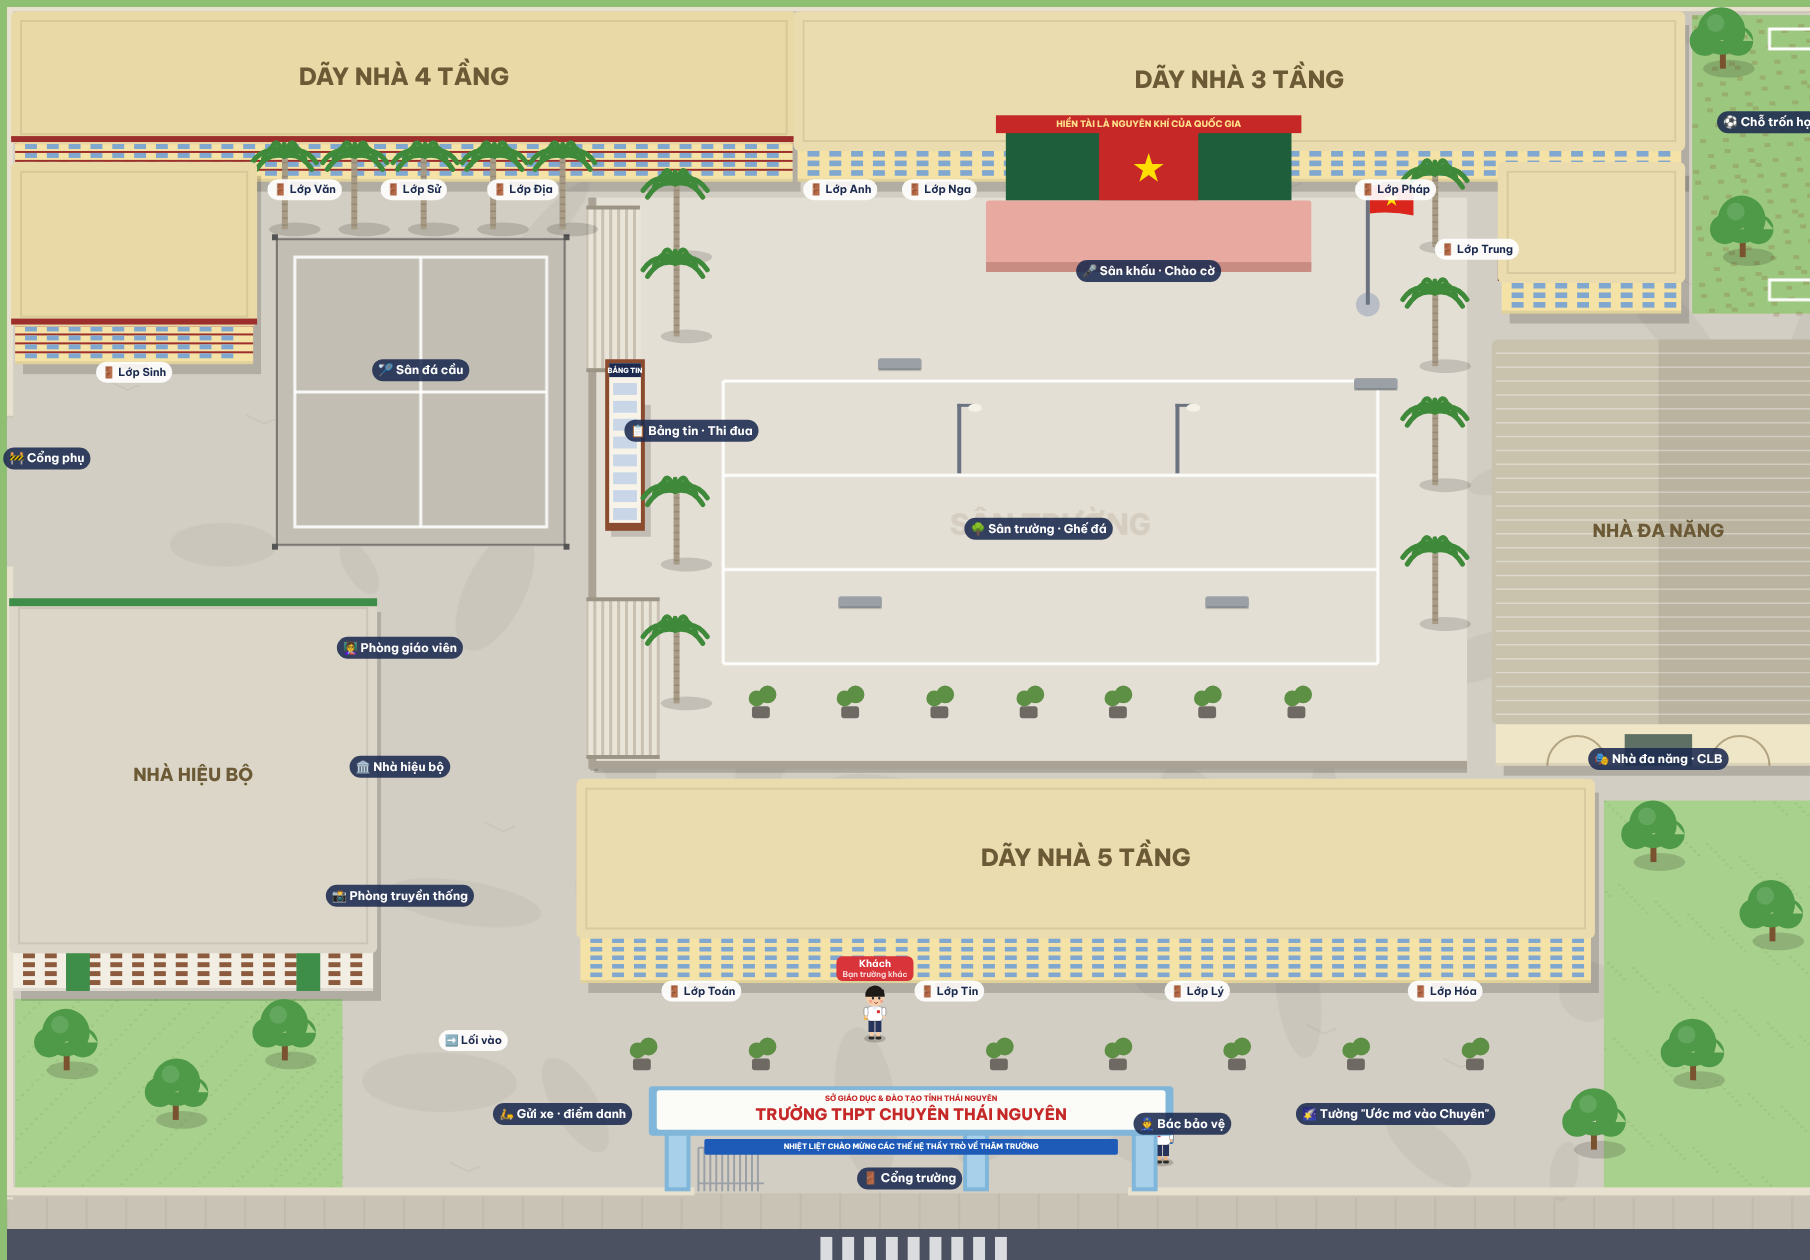
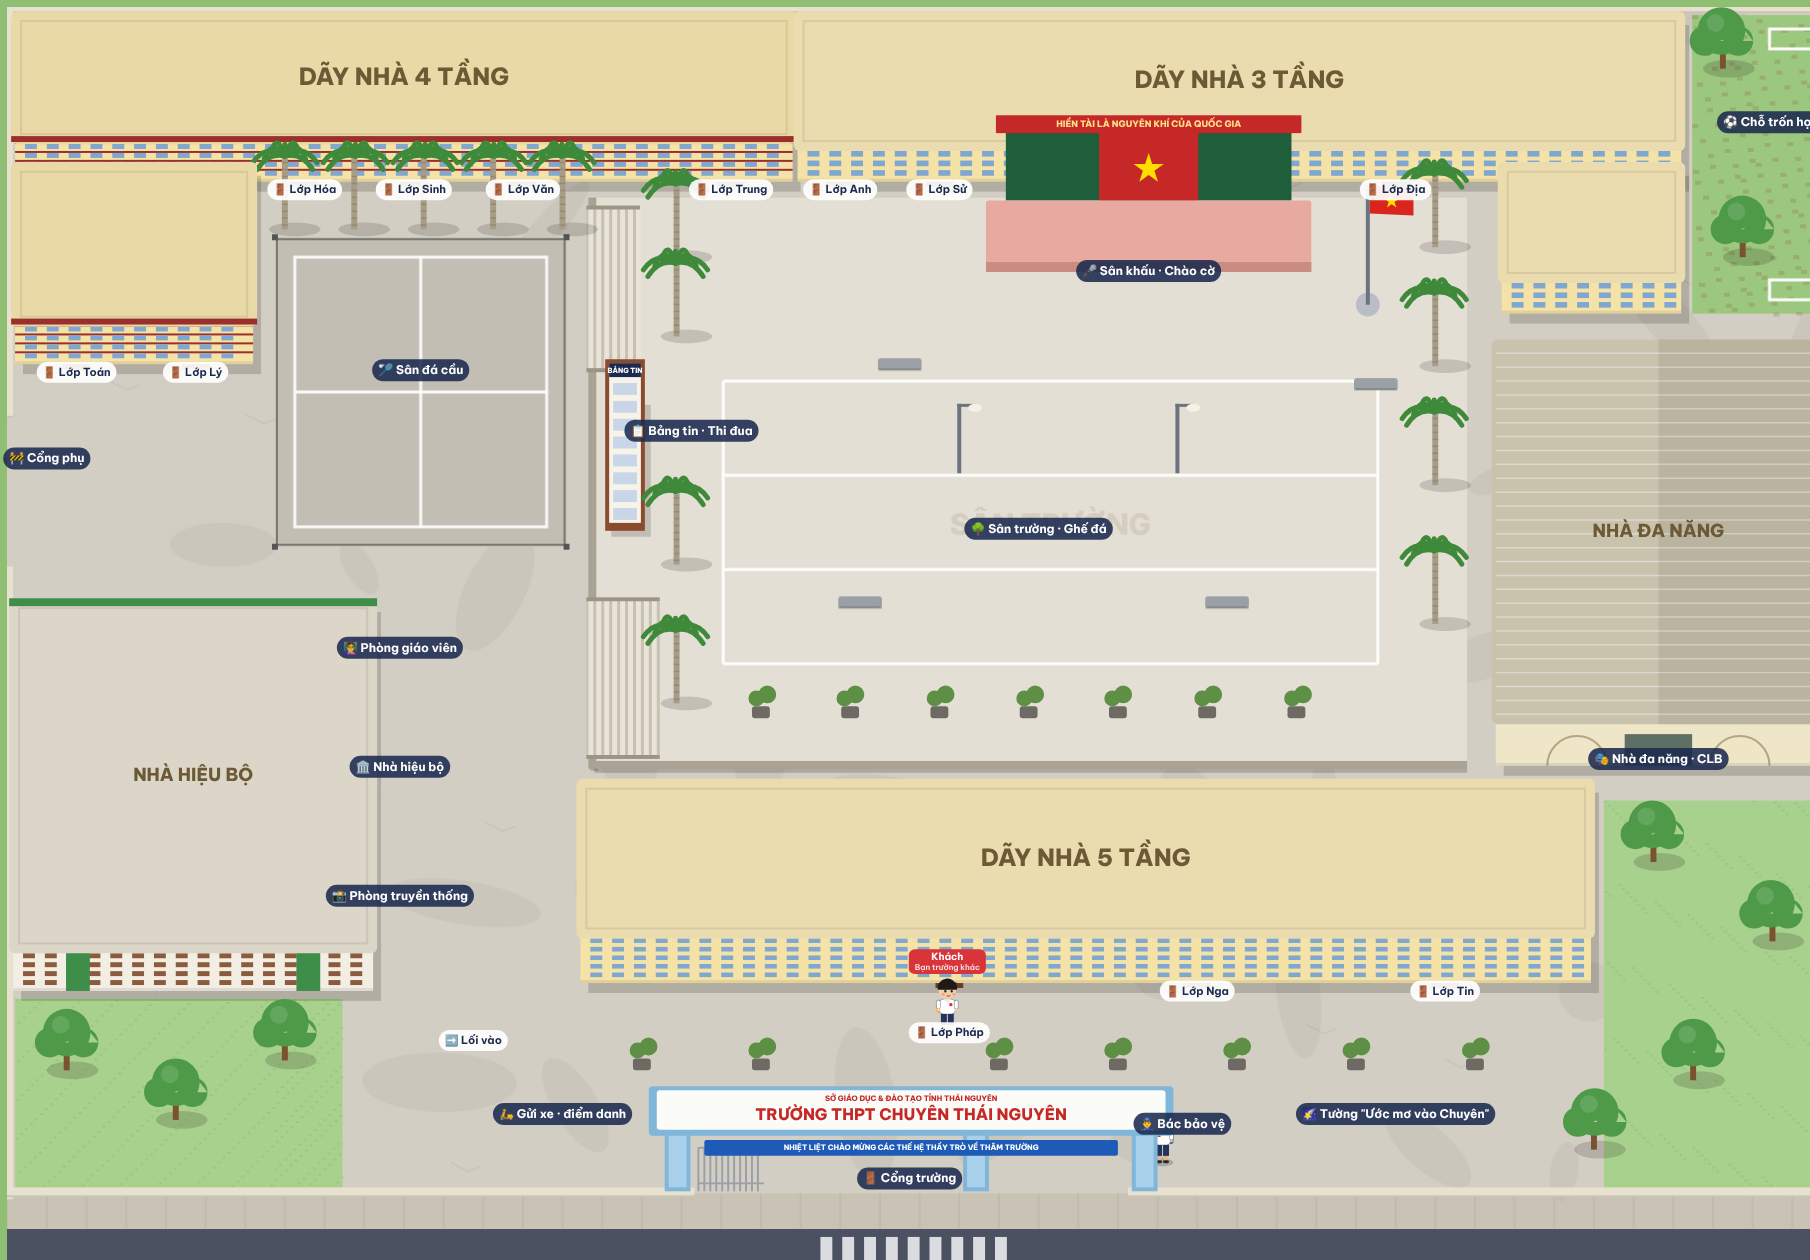
Xếp lớp chuyên đúng dãy nhà theo trí nhớ cựu học sinh
Dãy 4 tầng (trái → phải): Toán, Lý, Hóa, Sinh, Văn, Trung
Dãy 3 tầng (trái → phải): Anh, Sử, Địa
Dãy 5 tầng (phải → trái): Tin, Nga, Pháp

Claude-Session: https://claude.ai/code/session_01SVf8kGeQ6qEuhtfZz2rge2

diff --git a/public/js/campus.js b/public/js/campus.js
@@ -58,18 +58,20 @@ export const EDGES = [
   { x: 658, y: 756, w: 814, h: 8 },
 ];
 
-// Lớp chuyên theo dãy nhà (sắp xếp minh hoạ – đổi tuỳ ý). side: phía cửa quay ra.
+// Lớp chuyên theo dãy nhà (theo trí nhớ của cựu học sinh). side: phía cửa quay ra.
 export const CLASS_DOORS = [
-  // Dãy 5 tầng – cửa quay ra phía cổng
-  ...['Toán', 'Tin', 'Lý', 'Hóa'].map((lop, i) => ({ lop, b: 'D5', x: 700 + i * 250, y: 1010, side: 's' })),
-  // Dãy 4 tầng – cửa quay xuống sân đá cầu
-  { lop: 'Sinh', b: 'D4', x: 128, y: 386, side: 's' },
-  ...['Văn', 'Sử', 'Địa'].map((lop, i) => ({ lop, b: 'D4', x: 300 + i * 110, y: 202, side: 's' })),
-  // Dãy 3 tầng – cửa quay xuống sân trường
+  // Dãy 4 tầng, trái → phải: 2 lớp ở chân chữ L, 4 lớp ở thân dãy
+  { lop: 'Toán', b: 'D4', x: 70, y: 386, side: 's' },
+  { lop: 'Lý', b: 'D4', x: 190, y: 386, side: 's' },
+  ...['Hóa', 'Sinh', 'Văn', 'Trung'].map((lop, i) => ({ lop, b: 'D4', x: 300 + i * 110 + (i === 3 ? 100 : 0), y: 202, side: 's' })),
+  // Dãy 3 tầng, trái → phải
   { lop: 'Anh', b: 'D3', x: 840, y: 202, side: 's' },
-  { lop: 'Nga', b: 'D3', x: 940, y: 202, side: 's' },
-  { lop: 'Pháp', b: 'D3', x: 1400, y: 202, side: 's' },
-  { lop: 'Trung', b: 'D3', x: 1482, y: 262, side: 'w' },
+  { lop: 'Sử', b: 'D3', x: 940, y: 202, side: 's' },
+  { lop: 'Địa', b: 'D3', x: 1400, y: 202, side: 's' },
+  // Dãy 5 tầng, phải → trái; cửa quay ra phía cổng
+  { lop: 'Tin', b: 'D5', x: 1450, y: 1010, side: 's' },
+  { lop: 'Nga', b: 'D5', x: 1200, y: 1010, side: 's' },
+  { lop: 'Pháp', b: 'D5', x: 950, y: 1010, side: 's' },
 ];
 
 // Điểm tương tác: chạm nhãn → nhân vật đi tới (x, y) → mở bảng `panel`. `map`: nhãn ngắn trên bản đồ.

diff --git a/README.md b/README.md
@@ -12,9 +12,9 @@ ghé lớp cũ, viết lưu bút, đăng ký họp lớp và thi đua giữa cá
 |---|---|
 | Cổng trường (xanh, biển trắng chữ đỏ), bác bảo vệ | Giới thiệu, gửi xe điểm danh mỗi ngày nhận 20k ăn vặt |
 | **Nhà hiệu bộ** (4 tầng, sơn xanh trắng) | Lịch họp lớp (tạo, đăng ký), tri ân thầy cô, phòng giáo viên, phòng truyền thống |
-| **Dãy nhà 5 tầng** (ngay sau cổng) | Lớp chuyên Toán, Tin, Lý, Hóa |
-| **Dãy nhà 4 tầng** (chữ L, hàng cau vua) | Lớp chuyên Sinh, Văn, Sử, Địa |
-| **Dãy nhà 3 tầng** | Lớp chuyên Anh, Nga, Pháp, Trung |
+| **Dãy nhà 5 tầng** (ngay sau cổng) | Lớp chuyên (phải → trái) Tin, Nga, Pháp |
+| **Dãy nhà 4 tầng** (chữ L, hàng cau vua) | Lớp chuyên (trái → phải) Toán, Lý, Hóa, Sinh, Văn, Trung |
+| **Dãy nhà 3 tầng** | Lớp chuyên (trái → phải) Anh, Sử, Địa |
 | Trong mỗi lớp | Lưu bút theo từng khóa, sổ đầu bài (ai đã về lớp), đố vui theo môn |
 | Sân trường (cao, có bậc thang) | Sân khấu chào cờ, bảng tin thi đua theo khóa/lớp, ghế đá |
 | Sân đá cầu | Trò đá cầu có bảng xếp hạng |
@@ -40,8 +40,7 @@ Sơ đồ dựng theo bản vẽ tay của cựu học sinh ([`docs/so-do-goc.jp
 Toàn bộ nằm trong [`public/js/campus.js`](public/js/campus.js): toạ độ, kích thước các dãy nhà
 (`BUILDINGS`), sân trường cao và bậc thang (`YARD`, `STAIRS`, `EDGES`), cửa lớp và lớp chuyên của từng dãy
 (`CLASS_DOORS`), điểm tương tác (`HOTSPOTS`), cây cối. Hướng Bắc ở trên, đường Lương Ngọc Quyến ở dưới.
-Sửa các con số là va chạm, tìm đường, bản đồ toàn cảnh tự cập nhật theo. Việc xếp lớp chuyên vào dãy nào
-là minh hoạ, đổi trong `CLASS_DOORS`.
+Sửa các con số là va chạm, tìm đường, bản đồ toàn cảnh tự cập nhật theo.
 
 ## Cấu trúc
 
